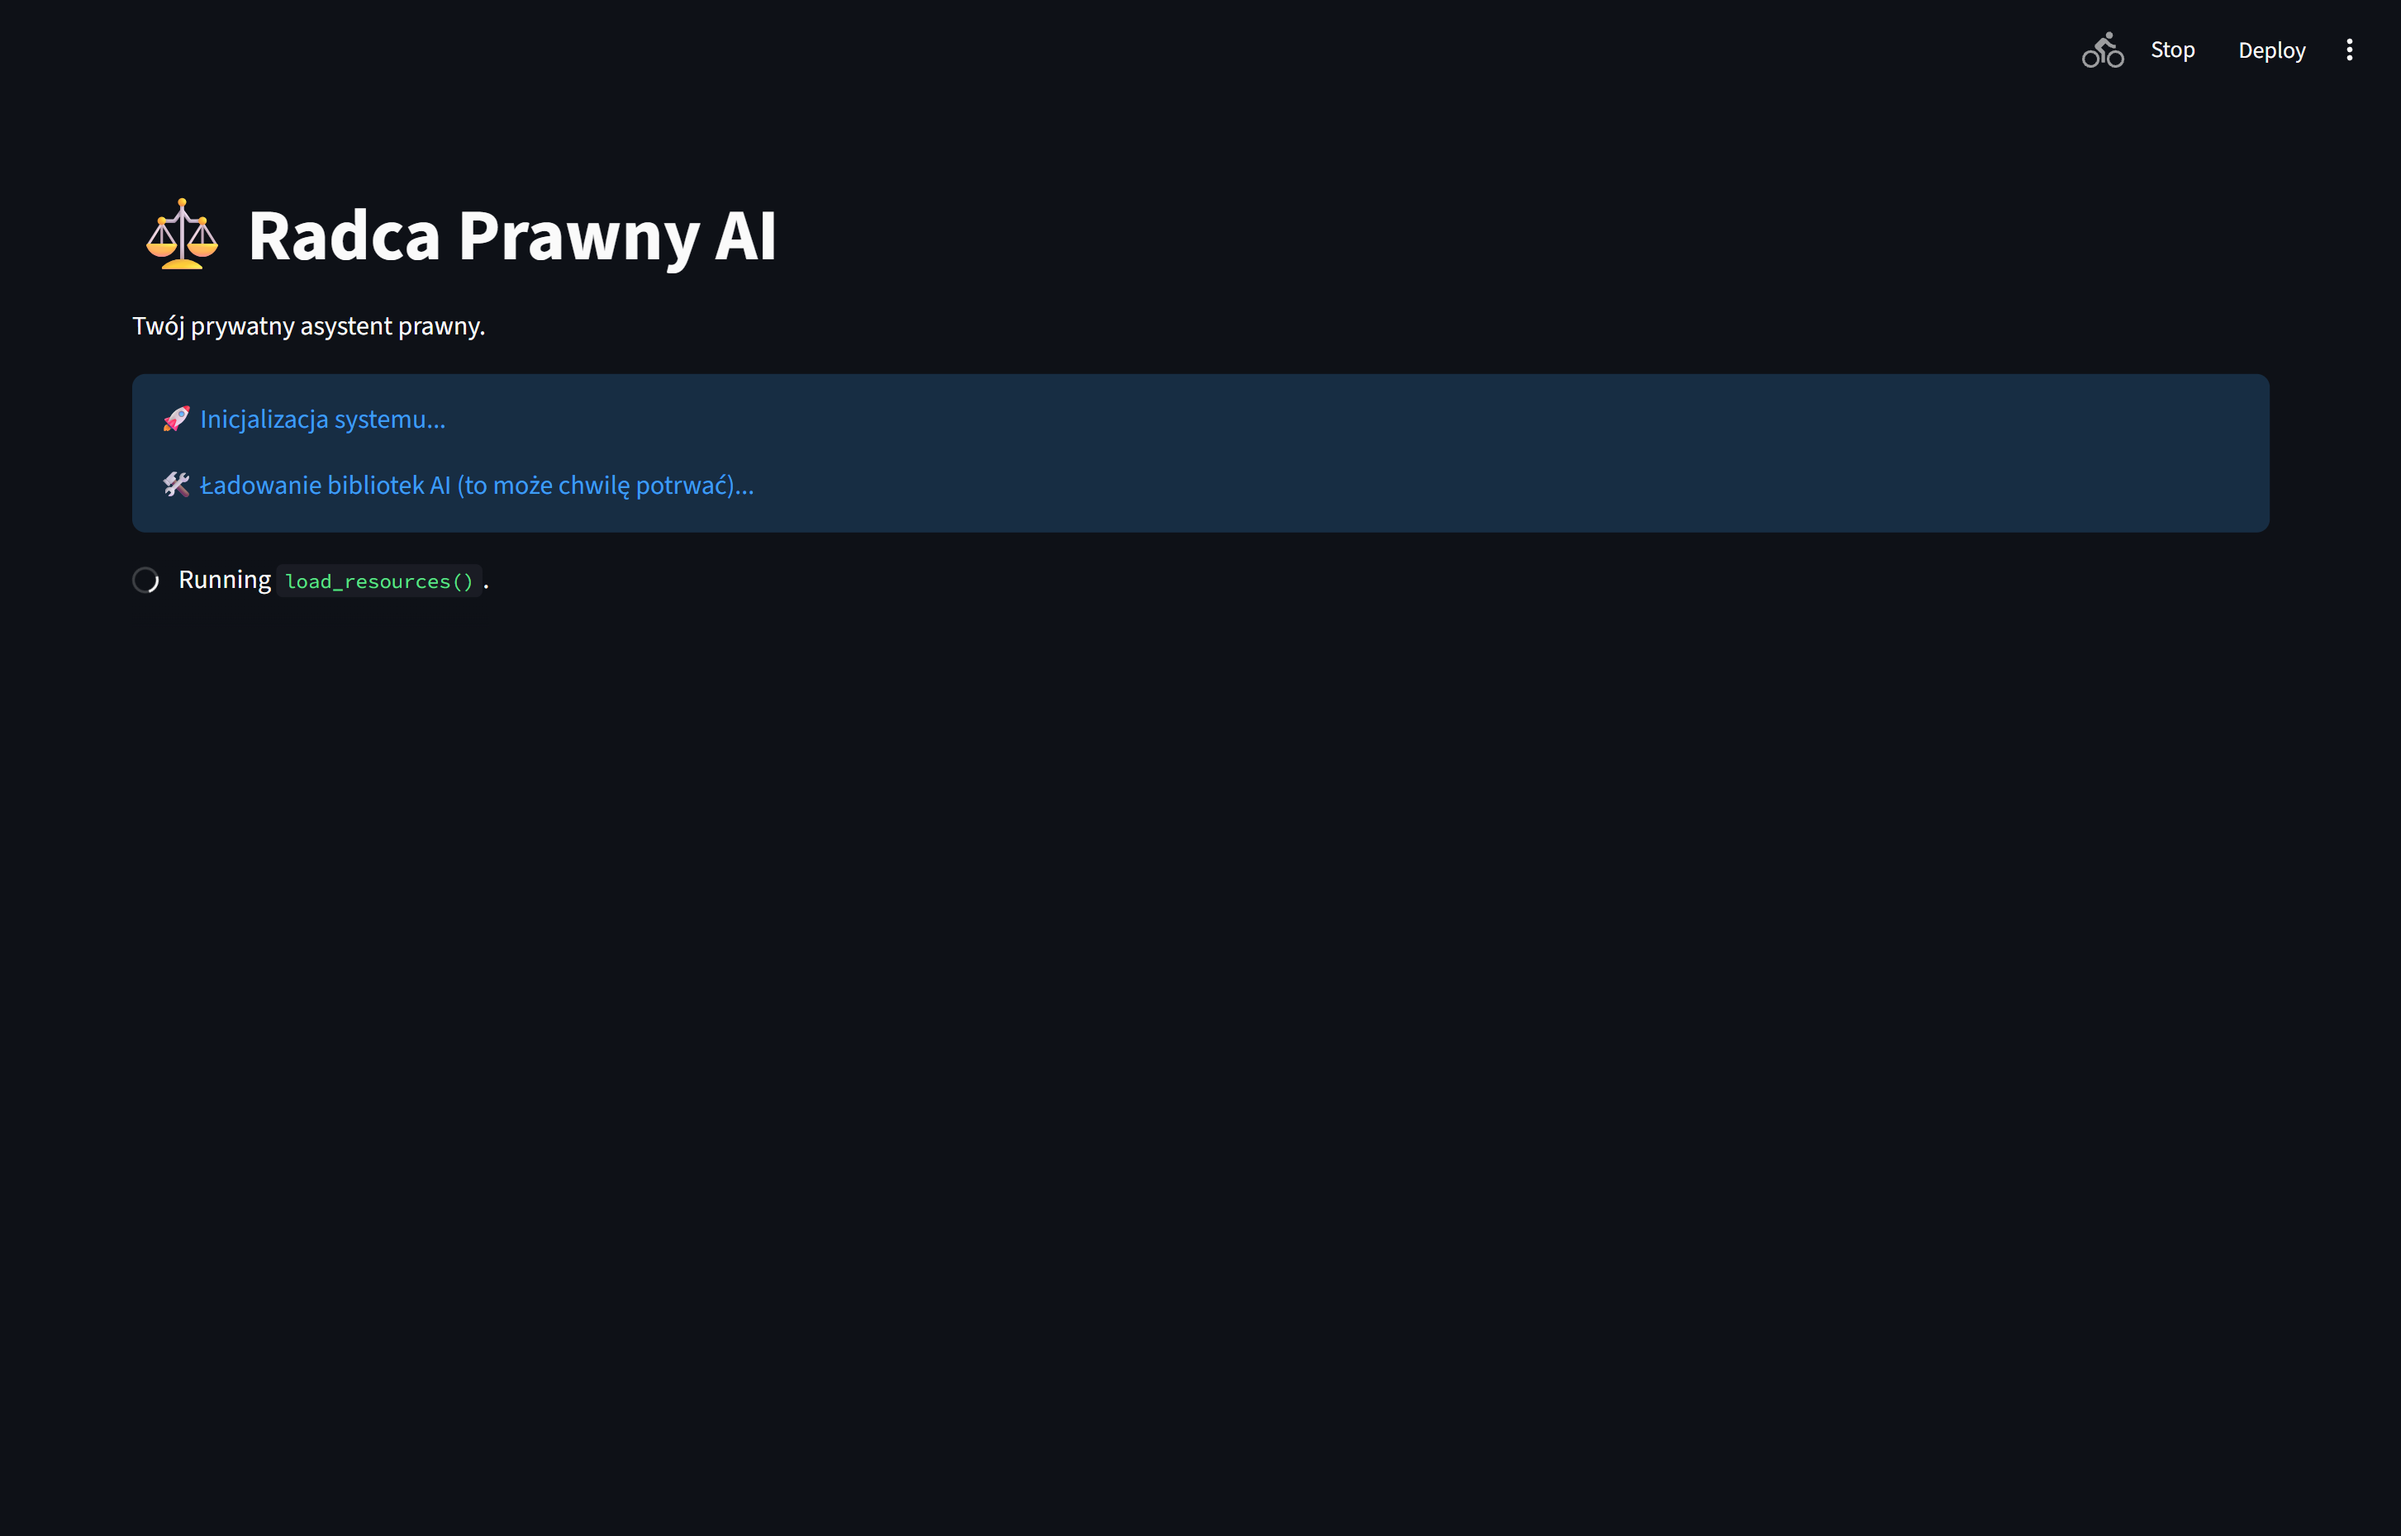
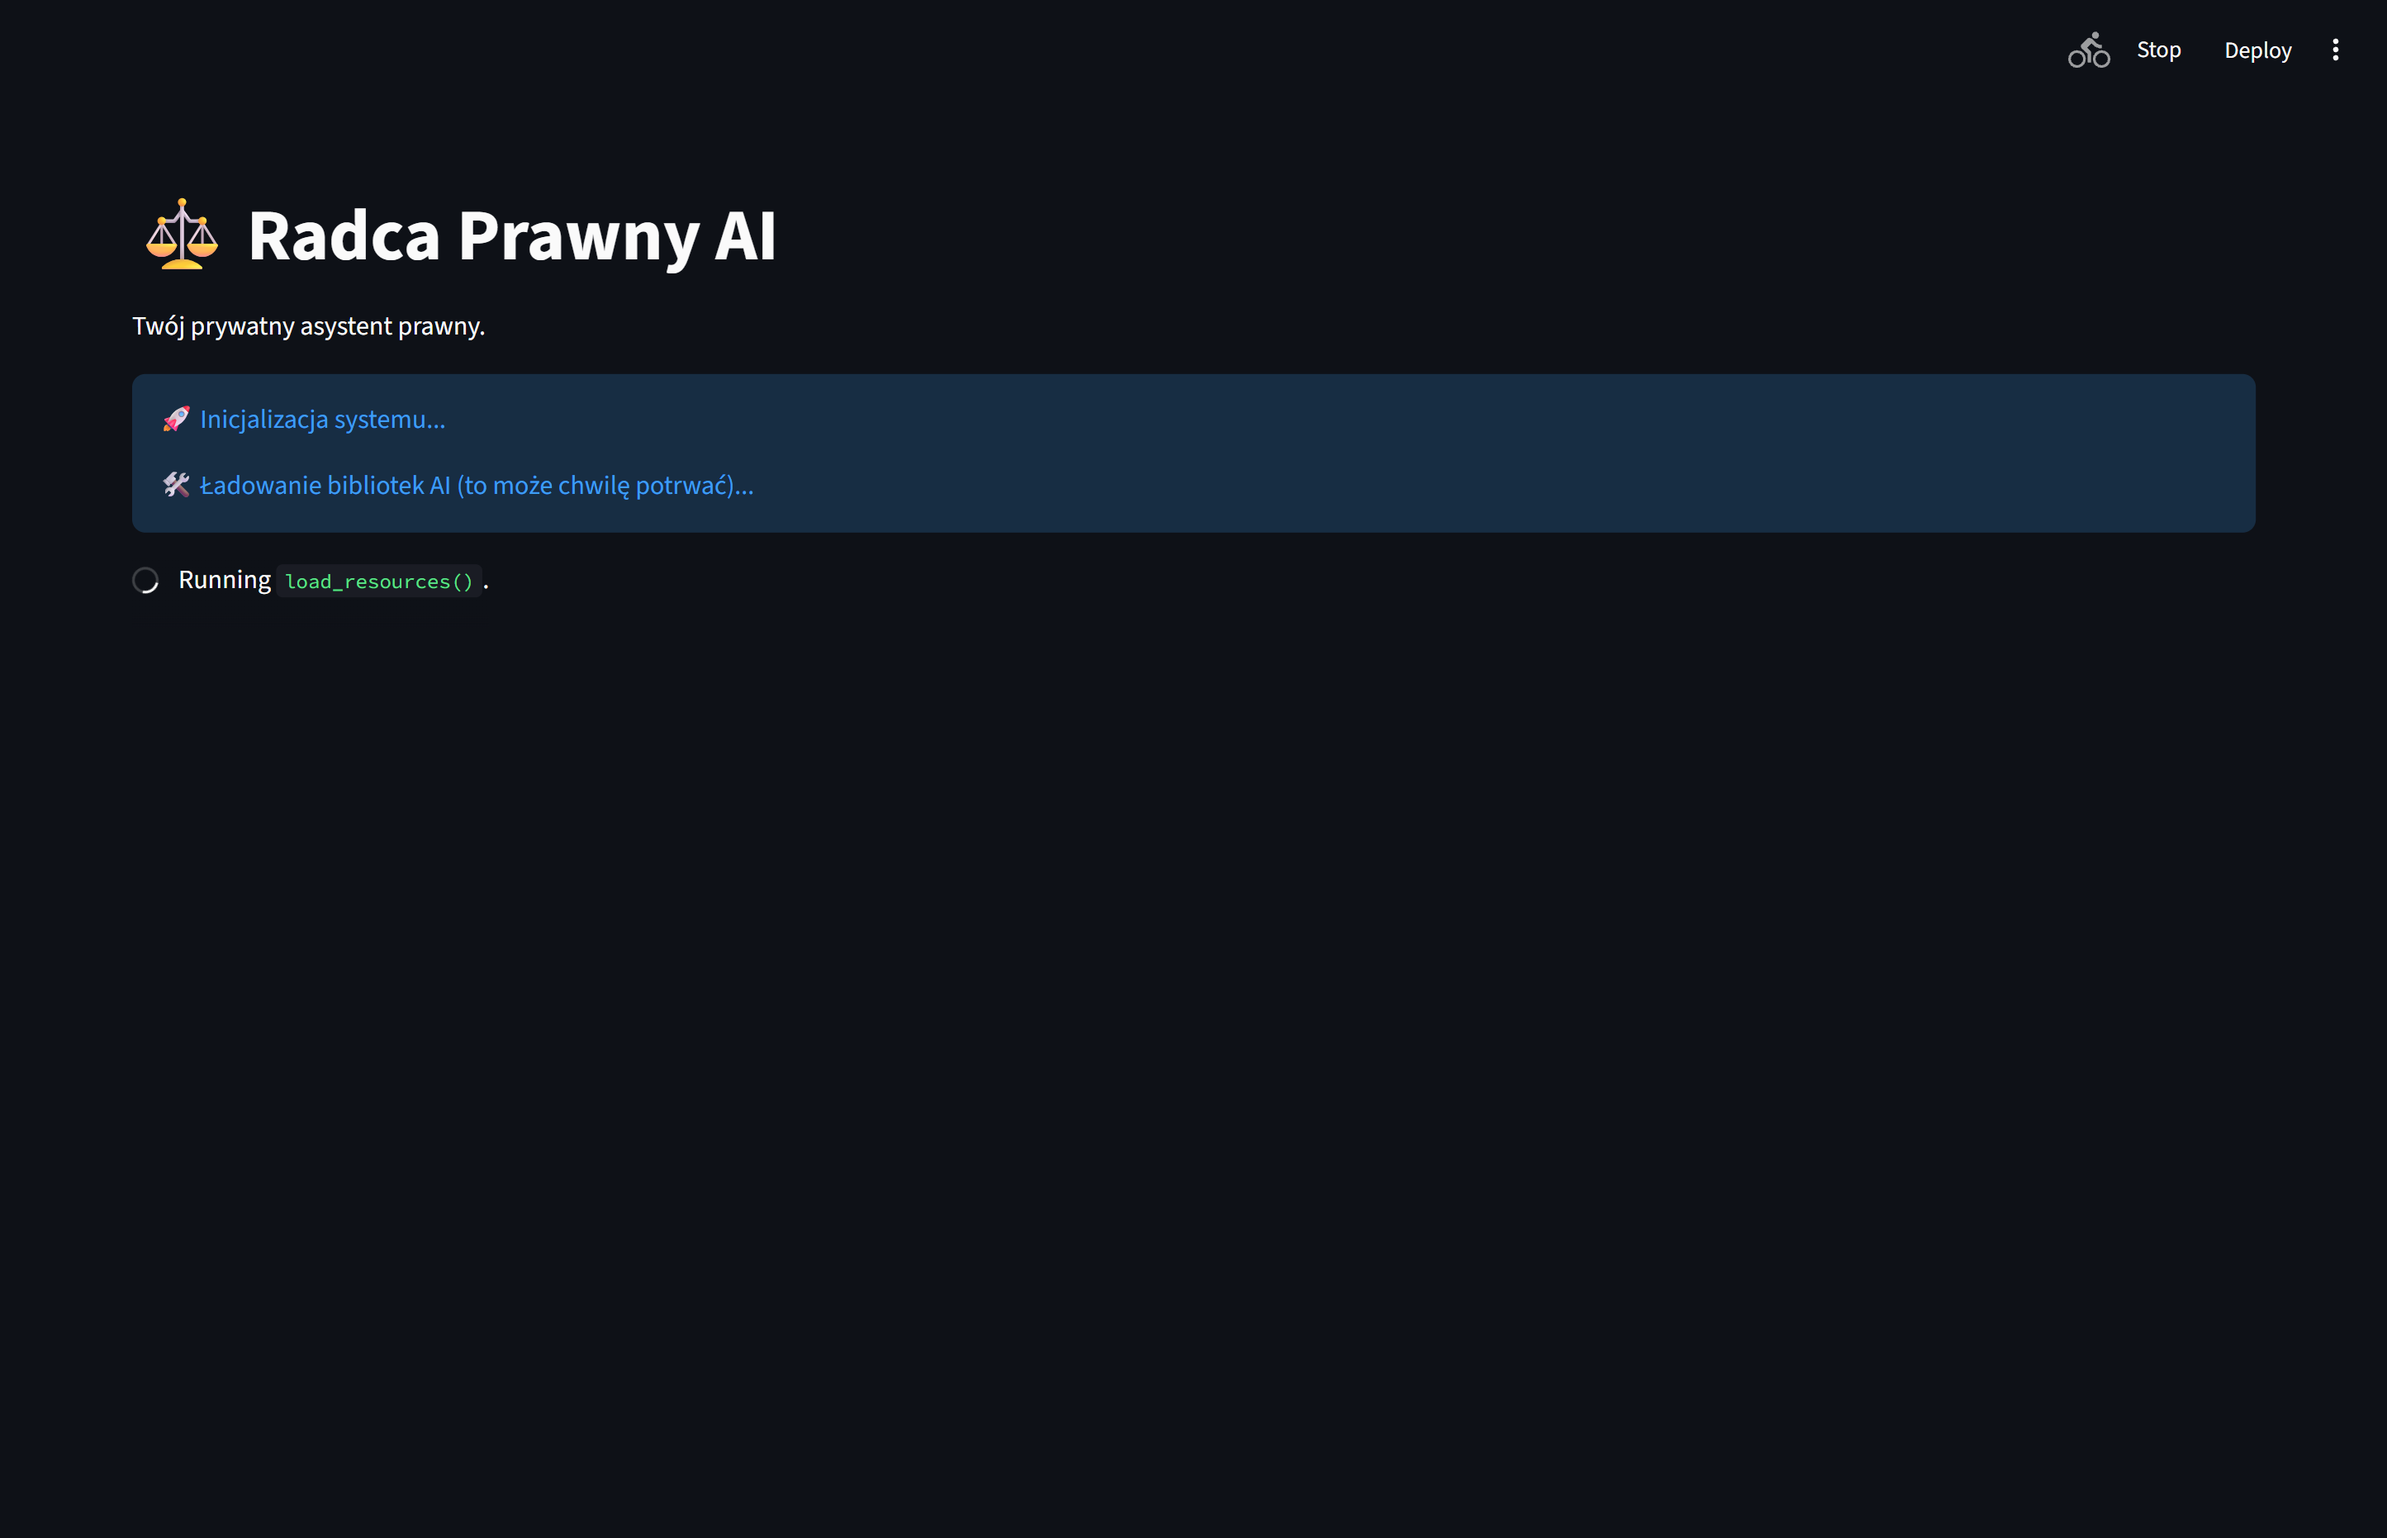
Update README and images: replace image2, remove image4, and adjust layout styles in app.py for better alignment

diff --git a/app.py b/app.py
@@ -268,9 +268,14 @@ with st.sidebar:
             div[data-testid="column"] {
                 display: flex;
                 align-items: center; 
+
+            }
+            div[data-testid="stVerticalBlock"] {
+                justify-content: center;
+                align-items: center;
             }
             div[data-testid="stVerticalBlock"] > div > div[data-testid="stHorizontalBlock"] {
-                gap: 0.5rem;
+                gap: 0.3rem;
             }
         </style>
         """, unsafe_allow_html=True

diff --git a/README.md b/README.md
@@ -90,7 +90,6 @@ streamlit run app.py
 
 ![alt text](docs/image0.png)
 ![alt text](docs/image1.png)
-![alt text](docs/image2.png)
 
 ### 2. Wersja CLI
 Klasyczny terminal dla szybkiego testowania i debugowania.
@@ -99,8 +98,8 @@ Klasyczny terminal dla szybkiego testowania i debugowania.
 python main.py
 ```
 
+![alt text](docs/image2.png)
 ![alt text](docs/image3.png)
-![alt text](docs/image4.png)
 
 ## 📄 Licencja
 - MIT License
